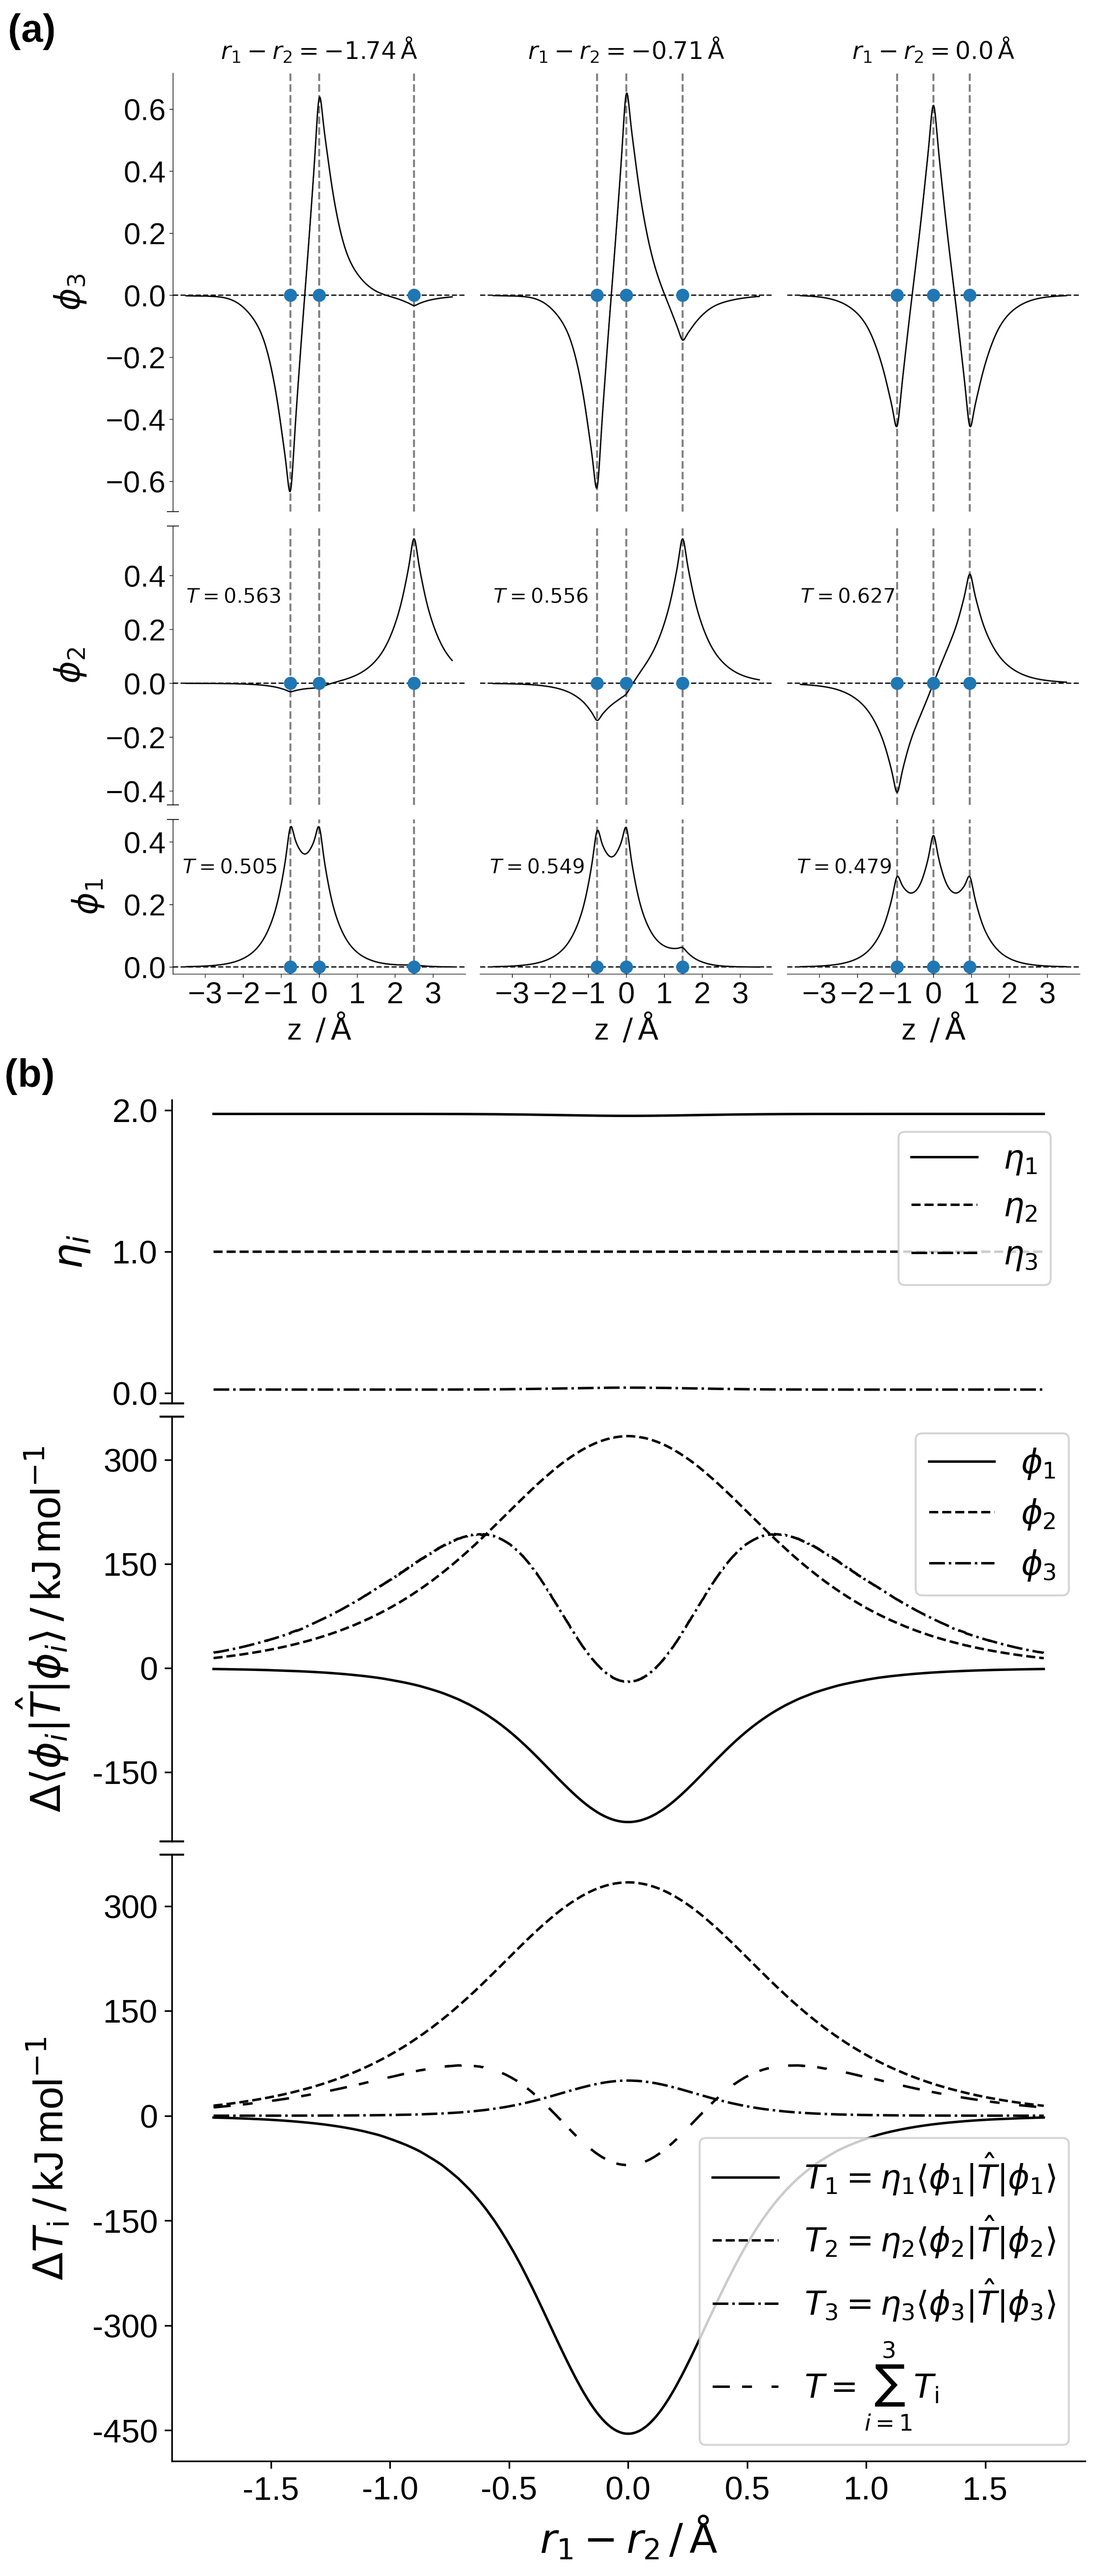
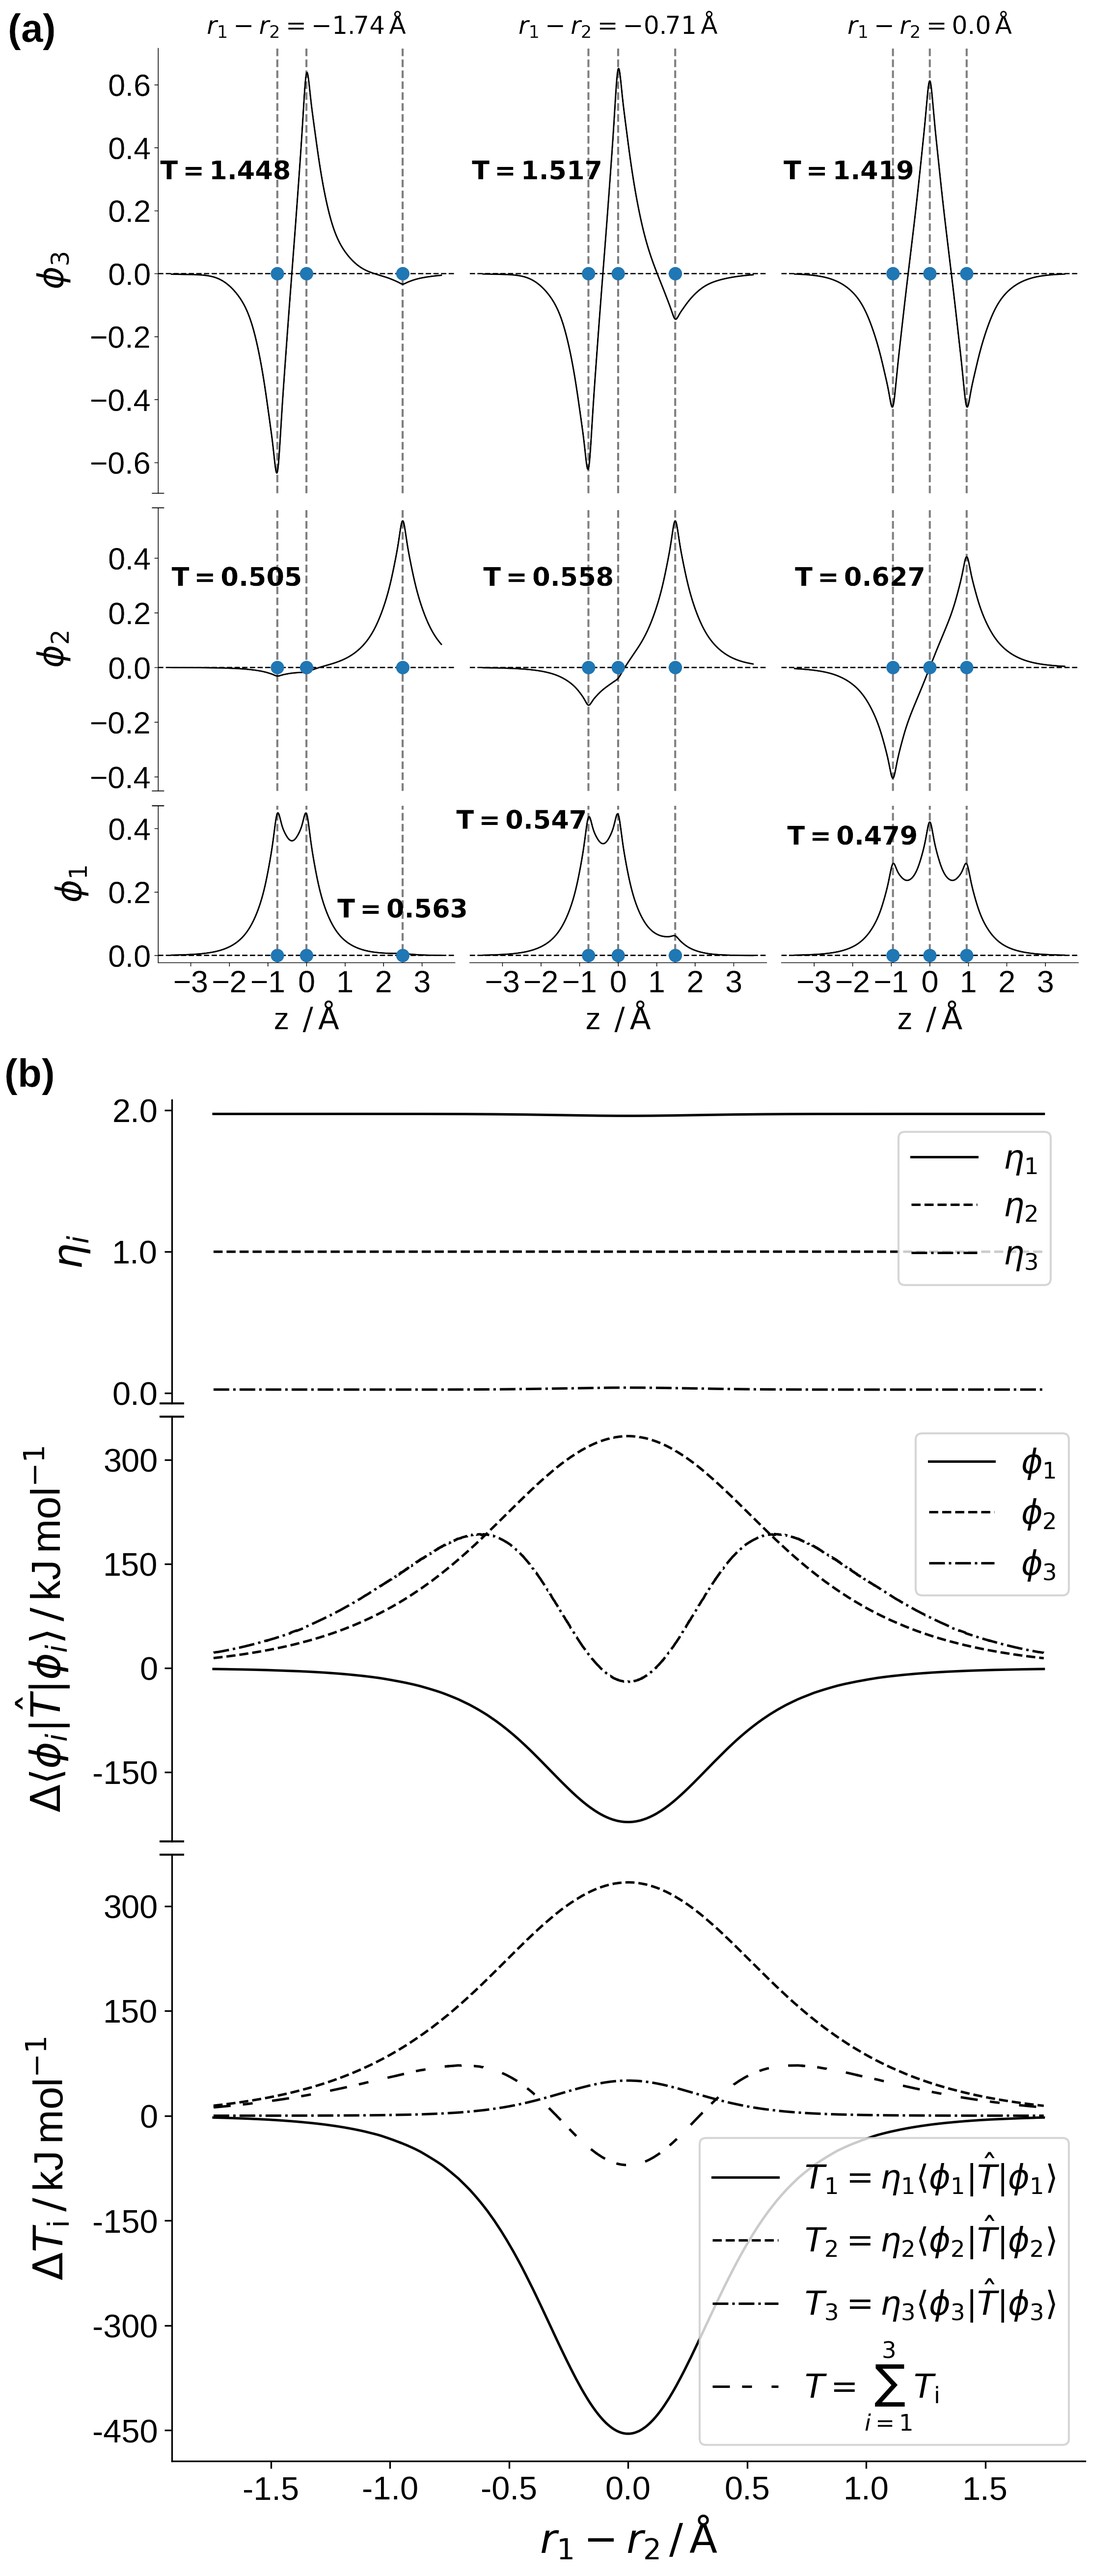
updated kinetic energy values on probability amplitude plot

diff --git a/script_to_plot_them_all.py b/script_to_plot_them_all.py
@@ -404,6 +404,7 @@ def stacked_3x3_amp():
     x_mid_norm3 = np.linspace(-3.5,3.5,len(dictx['orb3']))
     x_mid_norm2 = np.linspace(-3.5,3.5,len(dictx['orb2']))
     x_mid_norm1 = np.linspace(-3.5,3.5,len(dictx['orb1']))
+
     ax3.plot(x_mid_norm3,dicty['orb1'], '-',color='k')
     ax2.plot(x_mid_norm2,dicty['orb2'],'-',color='k')
     ax1.plot(x_mid_norm1,dicty['orb3'],'-',color='k')
@@ -469,6 +470,7 @@ def stacked_3x3_amp():
     atom_pos_1 = [-0.7676677342171011,0.0,1.4811879649283832]
     atom_pos_2 = [-0.956683,0.0,0.956718]
 
+
     for plt_no,ax in enumerate(axes):
         if plt_no > 5:
             for pos in atom_pos_2:
@@ -498,15 +500,16 @@ def stacked_3x3_amp():
             ax.yaxis.set_major_locator(ticker.MultipleLocator(0.2))
             ax.xaxis.set_major_locator(ticker.MultipleLocator(1))
 
-    #ax1.text(-3.5,0.3,r'$T=1.448\,$Ha',fontsize=15)
-    ax2.text(-3.5,0.3,r'$T=0.563\,$',fontsize=20)
-    ax3.text(-3.6,0.3,r'$T=0.505\,$',fontsize=20)
-    #ax4.text(-3.5,0.3,r'$T=1.517\,$Ha',fontsize=15)
-    ax5.text(-3.5,0.3,r'$T=0.556\,$',fontsize=20)
-    ax6.text(-3.6,0.3,r'$T=0.549\,$',fontsize=20)
-    #ax7.text(-3.5,0.3,r'$T=1.419\,$Ha',fontsize=15)
-    ax8.text(-3.5,0.3,r'$T=0.627\,$',fontsize=20)
-    ax9.text(-3.6,0.3,r'$T=0.479\,$',fontsize=20)
+    ax1.text(-3.8,0.3,r'$\mathbf{T=1.448}$',fontsize=25)
+    ax2.text(-3.5,0.3,r'$\mathbf{T=0.505}$',fontsize=25)
+    ax3.text(0.8,0.12,r'$\mathbf{T=0.563}$',fontsize=25)
+    ax4.text(-3.8,0.3,r'$\mathbf{T=1.517}$',fontsize=25)
+    ax5.text(-3.5,0.3,r'$\mathbf{T=0.558}$',fontsize=25)
+    ax6.text(-4.2,0.4,r'$\mathbf{T=0.547}$',fontsize=25)
+    ax7.text(-3.8,0.3,r'$\mathbf{T=1.419}$',fontsize=25)
+    ax8.text(-3.5,0.3,r'$\mathbf{T=0.627}$',fontsize=25)
+    ax9.text(-3.7,0.35,r'$\mathbf{T=0.479}$',fontsize=25)
+
     ax1.set_title(r'$r_1-r_2=−1.74\,\mathrm{\AA}$',pad=14,fontsize=24)
     ax4.set_title(r'$r_1-r_2=−0.71\,\mathrm{\AA}$',pad=14,fontsize=24)
     ax7.set_title(r'$r_1-r_2=0.0\,\mathrm{\AA}$',pad=14,fontsize=24)
